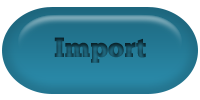
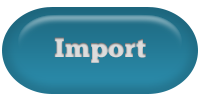
Add Buttons

Changed region(s): [[0.27, 0.36, 0.75, 0.63]]

diff --git a/CanF/Products.html b/CanF/Products.html
@@ -27,7 +27,7 @@
 					<img src="img/conserva2.jpg">
 					<figcaption>Conserva</figcaption>
 				</a>
-			</figure>					
+			</figure>
 			<figure class="thumbnail">
 				<a href="can-template.html">
 					<img src="img/conserva3.jpg">
@@ -45,7 +45,7 @@
 					<img src="img/conserva2.jpg">
 					<figcaption>Conserva cu cel mai lung nume din existenta conservelor, first of her name, the Unburnt, Queen of the Andals and the First Men, Khaleesi of the Great Grass Sea, Breaker of Chains, and Mother of Dragons</figcaption>
 				</a>
-			</figure>					
+			</figure>
 			<figure class="thumbnail">
 				<a href="can-template.html">
 					<img src="img/conserva3.jpg">
@@ -76,6 +76,7 @@
 	<div id="CF-title-section" >
 		<div class="CF-container">
 		<img src="img/LogoTW2.png" alt="Logo">
+		<img src="img/Import.png" alt="Logo">
 		</div>
 	</div>
 </body>
